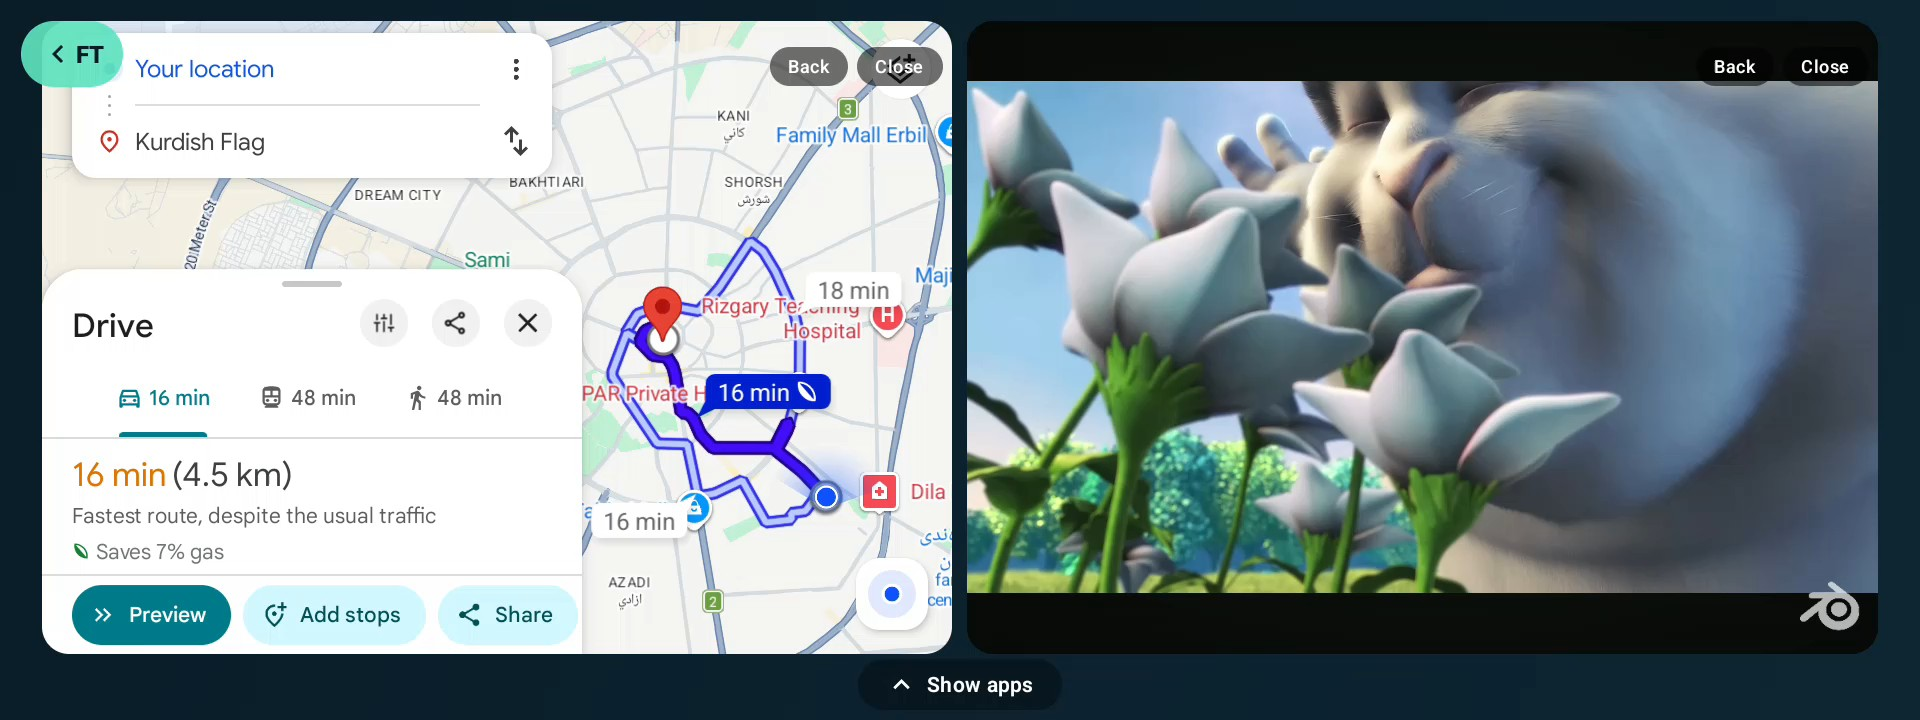
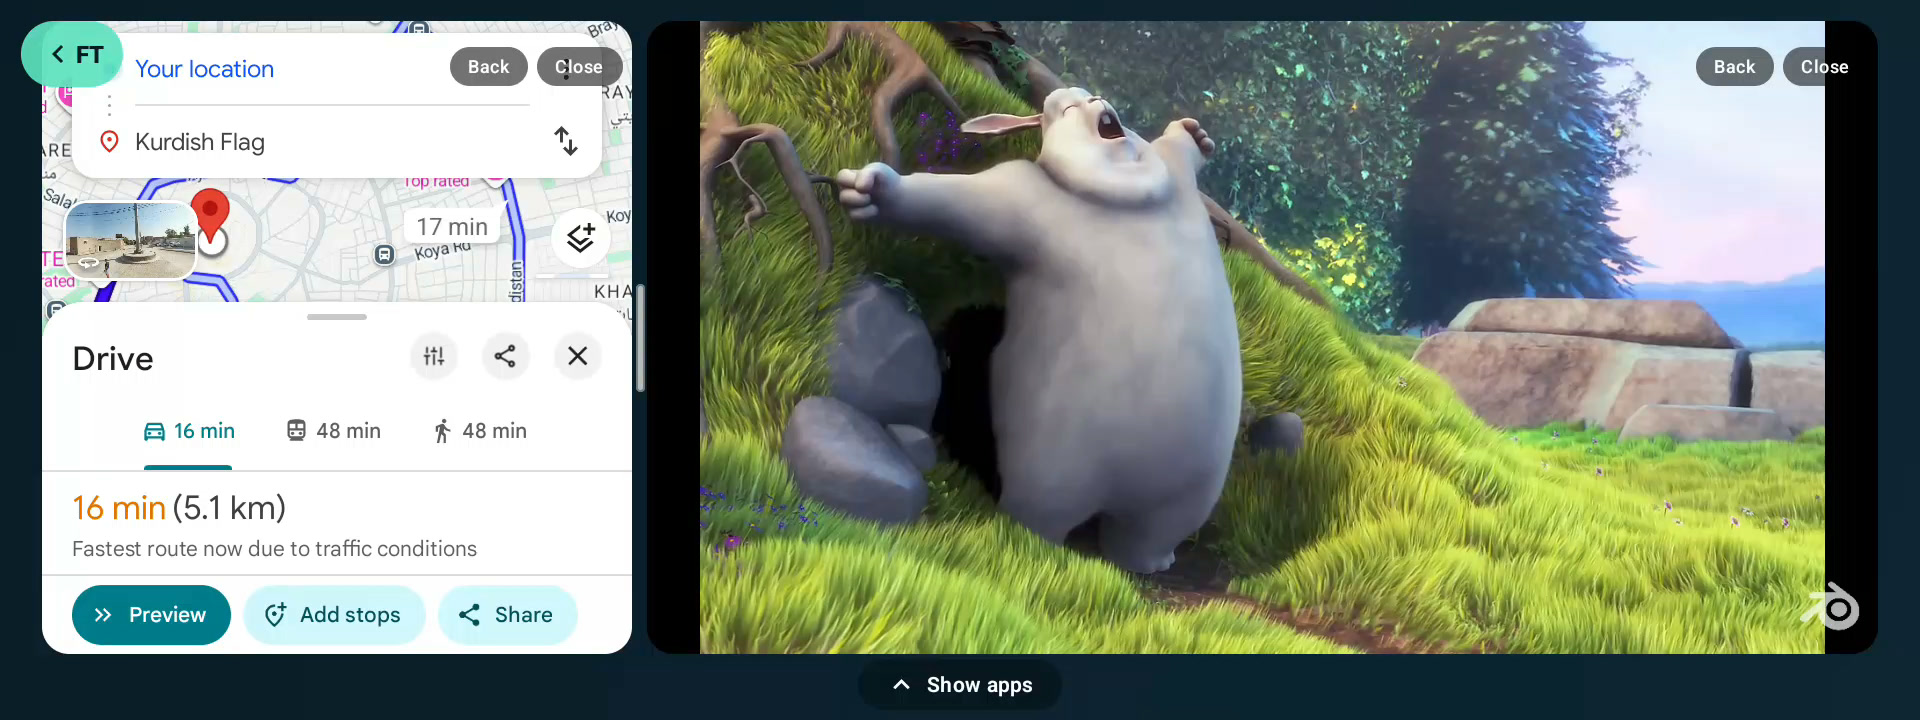
Tour video: a resize beat after Swap, where the app names follow a finger dragging the line to a third and the apps come back at their new widths, full screen and hidden-row shots at that split, and 3.9.8 in the closing

diff --git a/tools/video/index.html b/tools/video/index.html
@@ -93,6 +93,7 @@
 </div>
 <script>
 const W = 1920, H = 1080
+const RESIZED_X = 640
 const clamp = (v, a = 0, b = 1) => Math.min(b, Math.max(a, v))
 const E = {
   lin: x => x,
@@ -284,7 +285,7 @@ const HOLDS = [
   [7.25, 1.2], [10.25, 2.8],
   [14.47, 0.8], [15.47, 0.8], [16.47, 0.8], [17.5, 2.0], [18.85, 2.3], [20.02, 2.4],
   [23.15, 1.2], [24.55, 1.6], [26.55, 1.0], [27.9, 1.2],
-  [31.2, 2.2], [33.5, 1.6], [36.4, 1.2], [38.8, 2.4], [41.0, 1.8], [43.15, 1.8], [44.0, 2.2],
+  [31.2, 2.2], [33.5, 1.6], [35.9, 1.2], [37.2, 2.4], [38.8, 2.4], [41.0, 1.8], [43.15, 1.8], [44.0, 2.2],
   [47.3, 3.2],
   [50.7, 1.1], [52.55, 3.6], [54.65, 2.0], [57.75, 2.4],
   [61.2, 1.1], [62.6, 1.1], [64.0, 1.1], [65.4, 1.1],
@@ -489,11 +490,21 @@ const S = []
   const s = scene(29, 45)
   const k = kicker(s.root, '04', 'Apps on the car')
   const h = headline(s.root, ['Real phone apps.', '*Right on the car.'], 76)
-  const cr = car(s.root, ['car-cast-one', 'car-cast-two', 'car-cast-swapped', 'car-cast-full', 'car-cast-hidden'])
+  const cr = car(s.root, ['car-cast-one', 'car-cast-two', 'car-cast-swapped', 'car-cast-resized', 'car-cast-full', 'car-cast-hidden'])
   const svgR = lines.cloneNode()
   s.root.appendChild(svgR)
   const c1 = callout(s.root, svgR)
-  const chips = ['Two apps side by side', 'Swap sides', 'Full screen, edge to edge', 'Hide apps for more room', 'Apps always stay upright'].map(x => chip(s.root, x))
+  const chips = ['Two apps side by side', 'Swap sides', 'Full screen, edge to edge', 'Hide apps for more room', 'Apps always stay upright', 'Drag the line to resize'].map(x => chip(s.root, x))
+  const veils = ['Maps', 'YouTube'].map(x => el('div', '', s.root, x))
+  veils.forEach(v => css(v, { position: 'absolute', background: '#111a1f', display: 'flex', alignItems: 'center', justifyContent: 'center', color: 'rgba(255,255,255,0.85)', fontWeight: '600', zIndex: 24 }))
+  const backing = el('div', '', s.root)
+  css(backing, { position: 'absolute', background: '#0c1d24', zIndex: 23 })
+  const ftButton = el('div', '', s.root)
+  css(ftButton, { position: 'absolute', backgroundImage: `url(${shot('car-cast-swapped')})`, borderRadius: '999px', zIndex: 26 })
+  const line = el('div', '', s.root)
+  css(line, { position: 'absolute', background: '#5fe3c0', borderRadius: '99px', zIndex: 25 })
+  const finger = el('div', '', s.root)
+  css(finger, { position: 'absolute', width: '46px', height: '46px', borderRadius: '50%', background: 'rgba(255,255,255,0.85)', boxShadow: '0 0 0 10px rgba(95,227,192,0.35), 0 8px 24px rgba(0,0,0,0.4)', zIndex: 25 })
   const needs = el('div', 'foot', s.root, 'Needs root, or one command from a computer, once')
   const credit4 = el('div', 'foot', s.root, 'Map: Google Maps · Video: Big Buck Bunny © Blender Foundation, CC BY 3.0')
   const seam = el('div', '', cr.s)
@@ -525,16 +536,32 @@ const S = []
     const y = mix(mix(345, 205, full), 380, shrink)
     cr.place(x, y, w, mix(0.94, 1, cv), `translateY(${(1 - cv) * 60}px)`)
     css(cr.c, { opacity: cv })
-    screenSeq(cr.imgs, t, [['car-cast-one', 29.5, 32.2], ['car-cast-two', 32.2, 35.0], ['car-cast-swapped', 35.0, 37.6], ['car-cast-full', 37.6, 40.1], ['car-cast-hidden', 40.1, 45]], 'fade')
+    screenSeq(cr.imgs, t, [['car-cast-one', 29.5, 32.2], ['car-cast-two', 32.2, 35.0], ['car-cast-swapped', 35.0, 36.85], ['car-cast-resized', 36.85, 37.6], ['car-cast-full', 37.6, 40.1], ['car-cast-hidden', 40.1, 45]], 'fade')
     if (!ready) { ready = true }
     const dock = cr.at(1000, 627)
     c1.set('Pick apps from your own list', dock[0], dock[1], 1240, 950)
     c1.update(t, 30.2, 32.5, 1180, 952)
     showChip(chips[0], t, 32.6, 34.9, 799, 952)
     css(seam, { height: `${p(t, 32.6, 33.4, E.io3) * 100}%`, opacity: env(t, 32.6, 35.0, 0.3, 0.3) })
-    const sv = env(t, 35.1, 37.3, 0.4, 0.4)
-    css(swapIco, { opacity: sv, transform: `scale(${mix(0.4, 1, p(t, 35.1, 35.6, E.back))}) rotate(${p(t, 35.3, 36.3, E.io3) * 180}deg)` })
-    showChip(chips[1], t, 35.3, 37.3, 860, 952)
+    const sv = env(t, 35.05, 36.1, 0.3, 0.3)
+    css(swapIco, { opacity: sv, transform: `scale(${mix(0.4, 1, p(t, 35.05, 35.55, E.back))}) rotate(${p(t, 35.15, 35.85, E.io3) * 180}deg)` })
+    showChip(chips[1], t, 35.2, 36.15, 860, 952)
+    const fx = mix(960, RESIZED_X, p(t, 36.2, 36.8, E.io3))
+    const vv = Math.min(p(t, 36.15, 36.27, E.lin), 1 - p(t, 36.85, 37.15, E.io3))
+    const kk = cr.w / 1920
+    ;[[42, fx - 7.5], [fx + 7.5, 1878]].forEach(([x1, x2], i) => {
+      const a = cr.at(x1, 21)
+      css(veils[i], { left: `${a[0]}px`, top: `${a[1]}px`, width: `${(x2 - x1) * kk}px`, height: `${531 * kk}px`, borderRadius: `${27 * kk}px`, fontSize: `${33 * kk}px`, opacity: vv })
+    })
+    const bp = cr.at(42, 21)
+    css(backing, { left: `${bp[0]}px`, top: `${bp[1]}px`, width: `${1836 * kk}px`, height: `${531 * kk}px`, opacity: vv })
+    const bt = cr.at(22, 22)
+    css(ftButton, { left: `${bt[0]}px`, top: `${bt[1]}px`, width: `${102 * kk}px`, height: `${65 * kk}px`, backgroundSize: `${1920 * kk}px ${720 * kk}px`, backgroundPosition: `${-22 * kk}px ${-22 * kk}px`, opacity: vv })
+    const lp = cr.at(fx - 6, 21 + 531 / 2 - 72)
+    css(line, { left: `${lp[0]}px`, top: `${lp[1]}px`, width: `${12 * kk}px`, height: `${144 * kk}px`, opacity: vv })
+    const fp = cr.at(fx, 360)
+    css(finger, { left: `${fp[0] - 23}px`, top: `${fp[1] - 23}px`, opacity: env(t, 36.15, 37.0, 0.15, 0.2), transform: `scale(${mix(1.25, 1, p(t, 36.15, 36.35))})` })
+    showChip(chips[5], t, 36.3, 37.45, 780, 952)
     showChip(chips[2], t, 37.9, 39.9, 560, 870)
     showChip(chips[4], t, 38.1, 39.9, 944, 870)
     const bx = cr.x, by = cr.y, bw = cr.w + 24, bh = cr.w * 720 / 1920 + 24
@@ -780,8 +807,8 @@ const S = []
   const wrap = el('div', 'layer', s.root)
   const logo = el('div', 'big', wrap, '<span class="accent" style="display:inline-block">FT</span>')
   css(logo, { position: 'absolute', left: '0', width: '1920px', top: '170px', textAlign: 'center', fontSize: '240px' })
-  const ver = el('div', 'chip', wrap, '3.9.7')
-  const feats = ['CarLife over Hotspot, WiFi Direct and USB', 'Android Auto on a CarLife car', 'Phone apps side by side, full screen', 'Mirror your phone', 'Gear actions for screen and sound', 'Steering wheel double press', 'Car microphone for the assistant', 'Music, videos and song info', 'English, Arabic and Kurdish', 'Light and dark']
+  const ver = el('div', 'chip', wrap, '3.9.8')
+  const feats = ['CarLife over Hotspot, WiFi Direct and USB', 'Android Auto on a CarLife car', 'Phone apps side by side, resizable', 'Mirror your phone', 'Gear actions for screen and sound', 'Steering wheel double press', 'Car microphone for the assistant', 'Music, videos and song info', 'English, Arabic and Kurdish', 'Light and dark']
   const fe = feats.map(x => { const e = el('div', 'chip', wrap, x); css(e, { fontSize: '23px' }); return e })
   const by = el('div', '', wrap, 'Made by OneAboveAll1964 · github.com/OneAboveAll1964')
   const credit = el('div', '', wrap, 'FT is an independent app, not affiliated with Baidu, Google or Toyota.<br>Big Buck Bunny (c) copyright 2008, Blender Foundation / www.bigbuckbunny.org, CC BY 3.0 (creativecommons.org/licenses/by/3.0) · Map: Google Maps · Music: Apple Loops')
